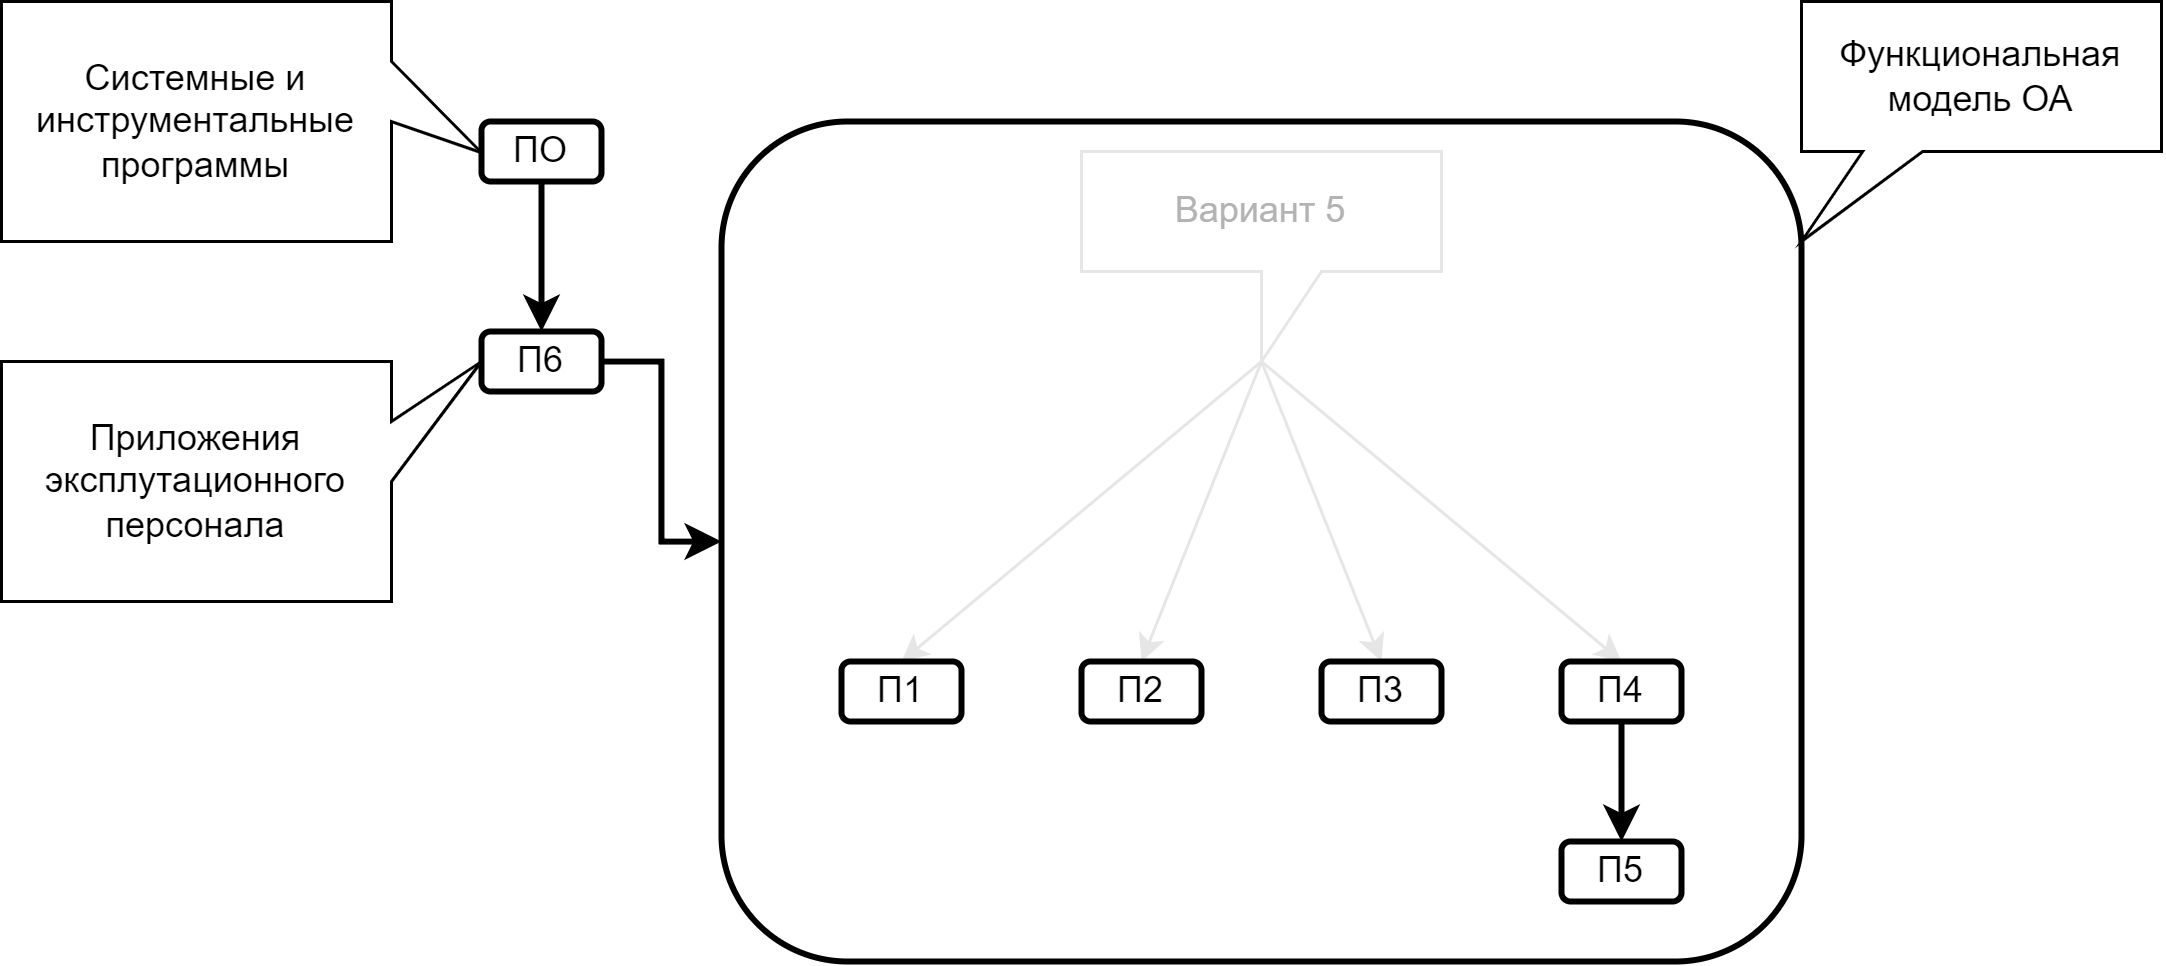
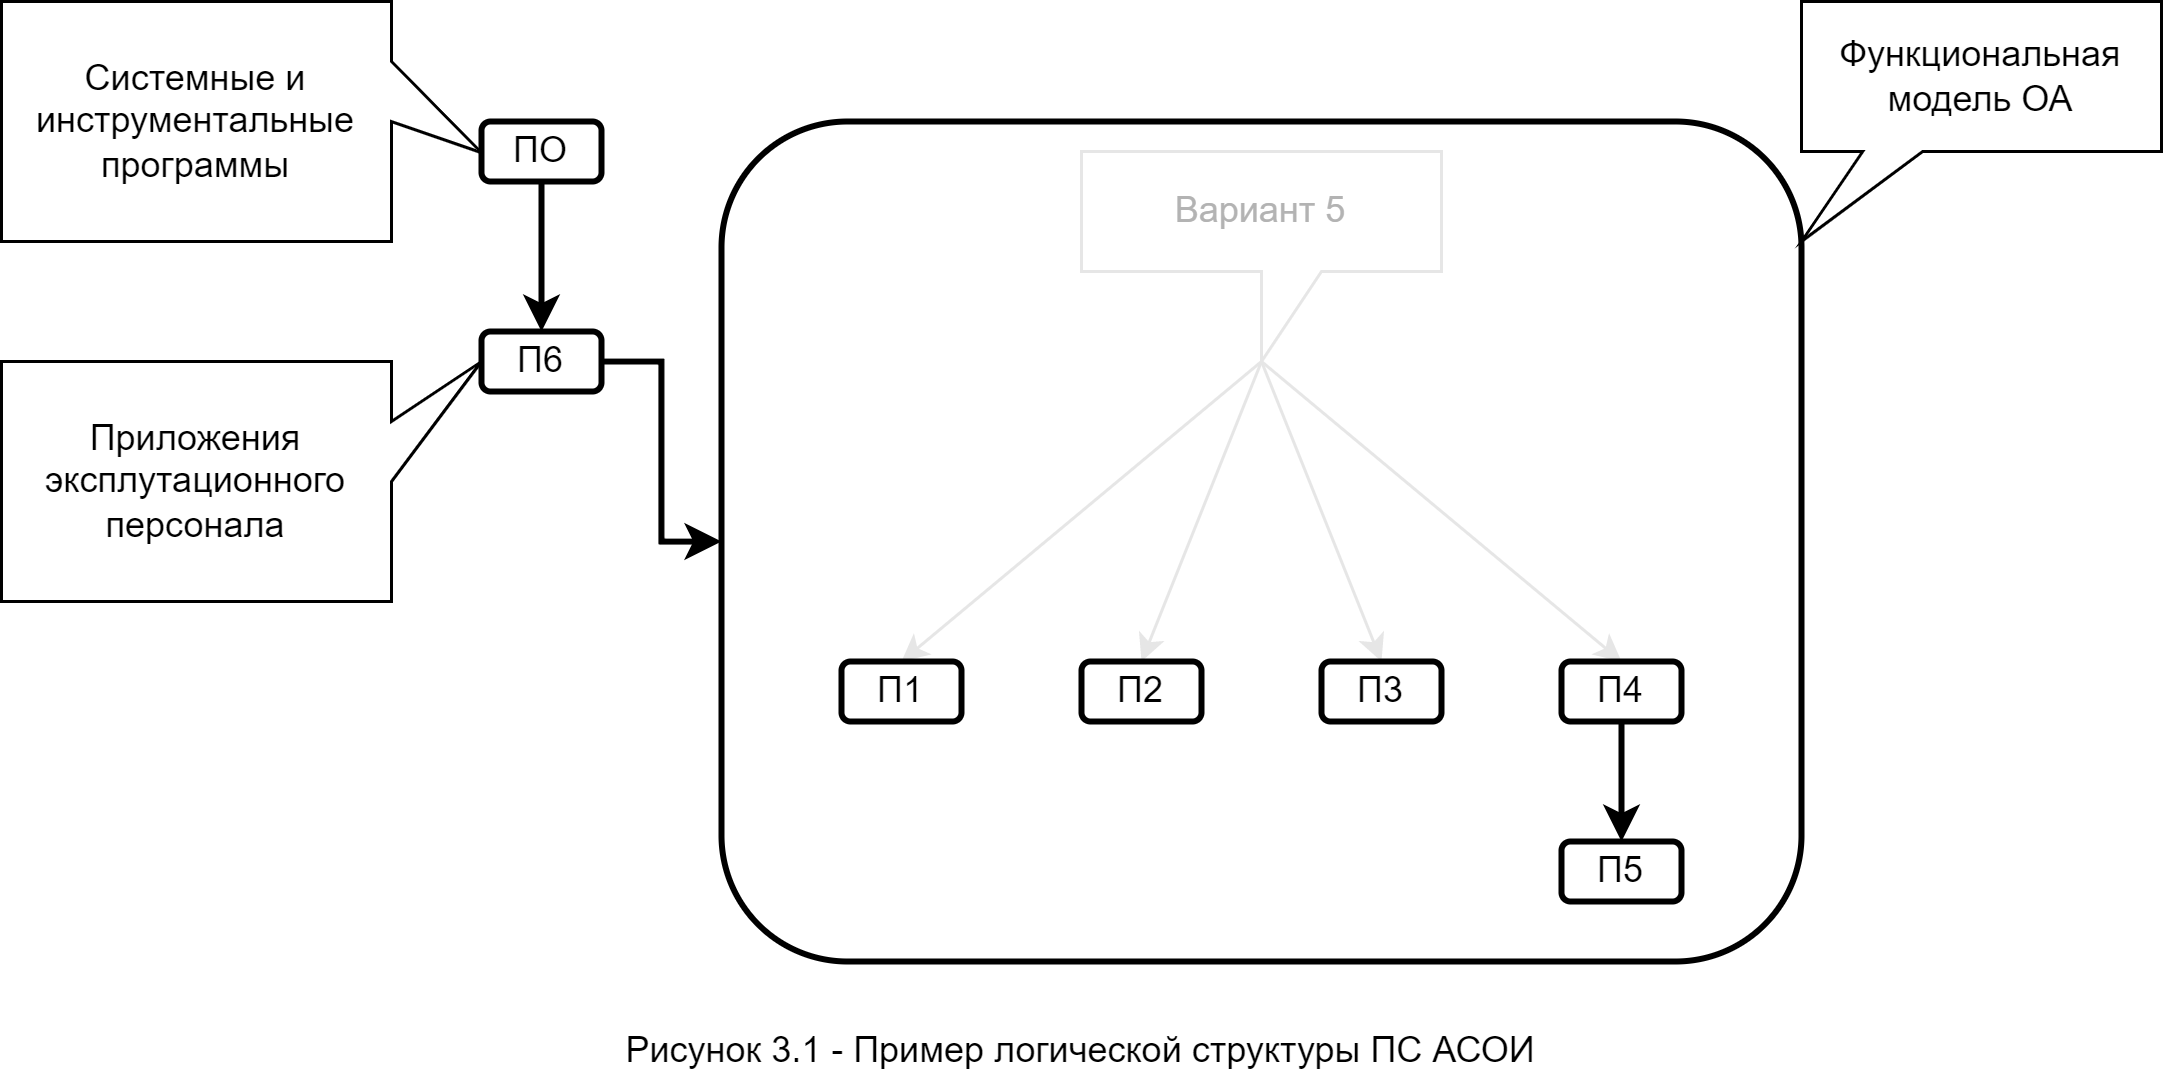
labs/Galanin_Pavel : Updated 3 report

diff --git a/report/УИТПиИМ_ПО-4_Галанин_лаб3.tex b/report/УИТПиИМ_ПО-4_Галанин_лаб3.tex
@@ -73,13 +73,27 @@
         \centering
         \includegraphics[width=16cm]
             {_docs/ТаблицаМ2КаталогРазработчиковЭлементовАСОИ.jpg}
-        \caption{Таблица 3.1 - Характеристики разраотчиков программ}
+        \caption{Каталог разработчиков элементов АСОИ}
+    \end{figure}
+
+    \begin{figure}[ph!]
+        \centering
+        \includegraphics[width=16cm]
+            {_docs/Таблица3-1ХарактеристикаРазработчиковПрограмм.jpg}
+        \caption{Характеристика разработчиков программ}
     \end{figure}
 
     \begin{figure}[ph!]
         \centering
         \includegraphics[width=16cm]
             {_docs/Рисунок3-1ПримерЛогическойСтруктурыПСАСОИ.png}
+        \caption{Пример логической структуры ПС АСОИ}
+    \end{figure}
+
+    \begin{figure}[ph!]
+        \centering
+        \includegraphics[width=16cm]
+            {_docs/Рисунок3-2ПервоначальнаяМодельСетевогоГрафикаСозданияПСАСОИ.png}
         \caption{Пример логической структуры ПС АСОИ}
     \end{figure}
 
